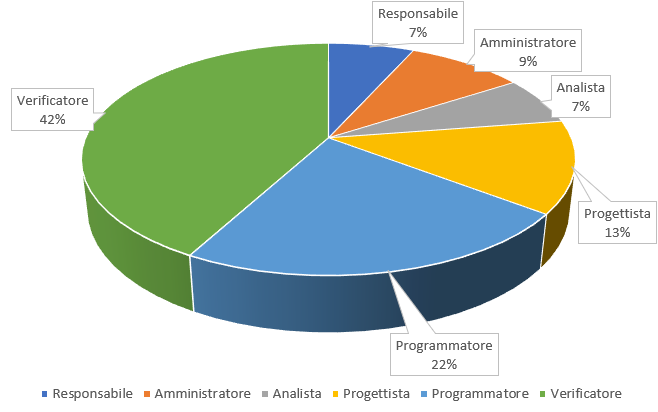
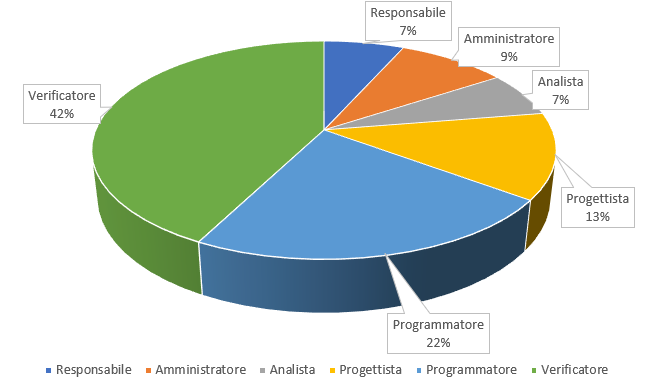
modifiche al preventivo con diagrammi #60

diff --git a/DocumentazioneEsterna/PianoDiProgetto/sezioni/Preventivo.tex b/DocumentazioneEsterna/PianoDiProgetto/sezioni/Preventivo.tex
@@ -58,9 +58,9 @@ La seguente tabella §5.1.1 rappresenta la distribuzione oraria dei ruoli per og
 La quantità di ore che ciascun componente del gruppo ha svolto per ogni ruolo viene rappresentata nel seguente istogramma:
 
 \begin{figure}[h]
-%	\centering
-%	\includegraphics[scale=0.45]{sezioni/Istogrammi/}
-%	\caption{Istogramma della disposizione ore per ruolo di ciascun componente del periodo di analisi}
+	\centering
+	\includegraphics[scale=0.45]{sezioni/Istogrammi/IstogrammaAnalisi.png}
+	\caption{Istogramma della disposizione ore per ruolo di ciascun componente del periodo di analisi}
 \end{figure}
 
 \subsubsection{Costo Risultate}
@@ -87,9 +87,9 @@ La seguente tabella §5.1.2 rappresenta, per ruolo, le ore totali investite e il
 La quantità di ore totali di ciascun ruolo viene rappresentata nel seguente aerogramma:
 
 \begin{figure}[h]
-%	\centering
-%	\includegraphics[scale=0.45]{sezioni/Aerogrammi/}
-%	\caption{Suddivisione ore per ruolo del periodo di analisi}
+	\centering
+	\includegraphics[scale=0.45]{sezioni/Aerogrammi/AerogrammaAnalisi.png}
+	\caption{Suddivisione ore per ruolo del periodo di analisi}
 \end{figure}
 
 \subsection{Progettazione architetturale}
@@ -106,8 +106,8 @@ La seguente tabella §5.2.1 rappresenta la distribuzione oraria dei ruoli per og
         
         Christian Mattei & 5 & & & 14 & 10 & 4 & 33\\
         Davide Lazzaro & 8 & & & 18 & & 7 & 33 \\
-        Emanuele Cisotto & & 8 & & 10 & 5 & 6 & 32 \\
-        Enrico Salmaso & & 10 & 6 & 10 & & 6 & 29 \\
+        Emanuele Cisotto & & 8 & & 10 & 5 & 6 & 29 \\
+        Enrico Salmaso & & 10 & 6 & 10 & & 6 & 32 \\
         Federico Perin & & 6 & & 5 & 7 & 13 &  31\\
         Francesco Drago & & & 13 & 5 & 7 & 6 & 31 \\
         Riccardo Baratin & 6 & & & & 17 & 8 & 31\\
@@ -230,13 +230,13 @@ La seguente tabella §5.4.1 rappresenta la distribuzione oraria dei ruoli per og
         
         Christian Mattei & & & 7 & & 4 & 8 & 19\\
         Davide Lazzaro & & 4 & & 5 & & 10 & 19\\
-        Emanuele Cisotto & & & & 6 & 5 & 9 & 20 \\
-        Enrico Salmaso & 5 & & & & 6 & 12 & 23\\
+        Emanuele Cisotto & 5 & & & & 6 & 12 & 23\\ 
+        Enrico Salmaso & & & & 6 & 5 & 9 & 20 \\
         Federico Perin & 6 & & & & 7 & 8 & 21\\
         Francesco Drago & & 6 & & & 9 & 6 & 21\\
         Riccardo Baratin & & 5 & & & 6 & 10 & 21\\
         Tommaso Azzalin & & & 4 & 10 & & 7 & 21\\
-        \textbf{Ore totali ruolo} & 11 & 15 & 11 & 21 & 37 & 69 & \\
+        \textbf{Ore totali ruolo} & 11 & 15 & 11 & 21 & 37 & 70 & \\
 		
 	\end{longtable}
 }
@@ -265,8 +265,8 @@ La seguente tabella §5.4.2 rappresenta, per ruolo, le ore totali investite e il
         Analista & 11 & 275\\
         Progettista & 21 & 462\\
         Programmatore & 37 & 555\\
-        Verificatore & 69 & 1035\\
-        \textbf{Totale} & 169 & 2457\\
+        Verificatore & 70 & 1050\\
+        \textbf{Totale} & 170 & 2472\\
 		
 	\end{longtable}
 }
